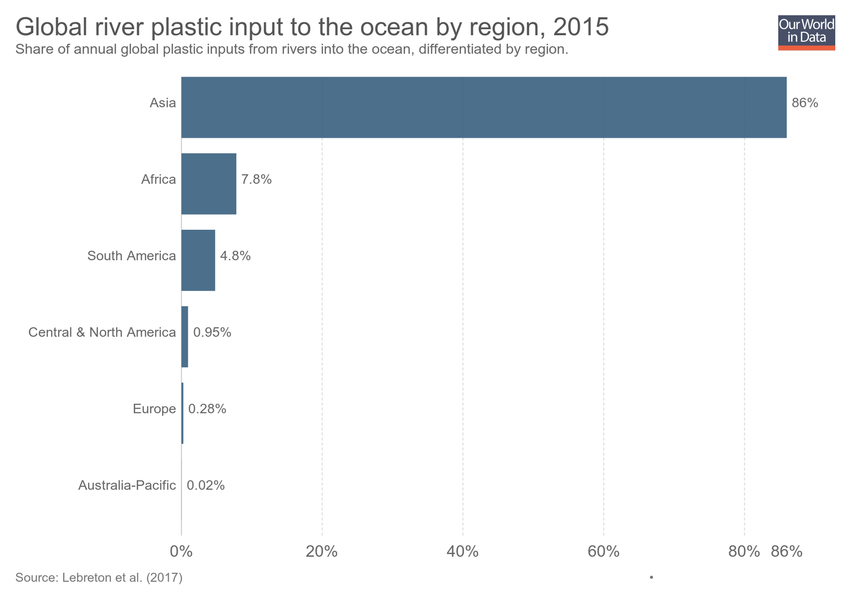
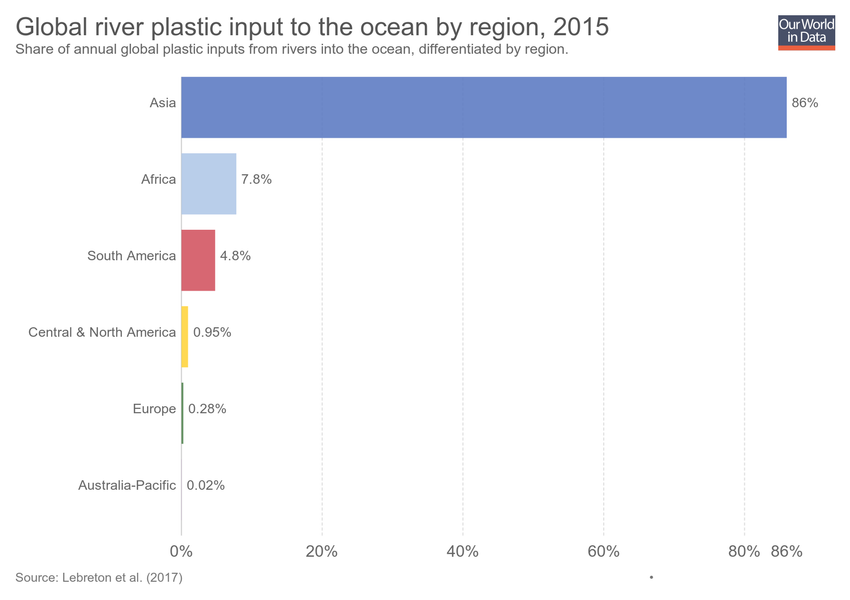
Updating chart river-plastics-by-region

Changed region(s): [[0.2141, 0.12, 0.9482, 0.63]]

diff --git a/grapher/river-plastics-by-region.html b/grapher/river-plastics-by-region.html
@@ -1,4 +1,4 @@
-<!doctype html><html><head><meta name="viewport" content="width=device-width, initial-scale=1" /><title>Global river plastic input to the ocean by region - Our World in Data</title><meta name="description" content="Share of annual global plastic inputs from rivers into the ocean, differentiated by region." /><link rel="canonical" href="https://ourworldindata.org/grapher/river-plastics-by-region" /><meta property="fb:app_id" content="1149943818390250" /><meta property="og:url" content="https://ourworldindata.org/grapher/river-plastics-by-region" /><meta property="og:title" content="Global river plastic input to the ocean by region" /><meta property="og:description" content="Share of annual global plastic inputs from rivers into the ocean, differentiated by region." /><meta property="og:image" content="https://ourworldindata.org/grapher/exports/river-plastics-by-region.png?v=1" /><meta property="og:image:width" content="850" /><meta property="og:image:height" content="600" /><meta property="og:site_name" content="Our World in Data" /><meta name="twitter:card" content="summary_large_image" /><meta name="twitter:site" content="@OurWorldInData" /><meta name="twitter:creator" content="@OurWorldInData" /><meta name="twitter:title" content="Global river plastic input to the ocean by region" /><meta name="twitter:description" content="Share of annual global plastic inputs from rivers into the ocean, differentiated by region." /><meta name="twitter:image" content="https://ourworldindata.org/grapher/exports/river-plastics-by-region.png?v=1" /><style>
+<!doctype html><html><head><meta name="viewport" content="width=device-width, initial-scale=1" /><title>Global river plastic input to the ocean by region - Our World in Data</title><meta name="description" content="Share of annual global plastic inputs from rivers into the ocean, differentiated by region." /><link rel="canonical" href="https://ourworldindata.org/grapher/river-plastics-by-region" /><meta property="fb:app_id" content="1149943818390250" /><meta property="og:url" content="https://ourworldindata.org/grapher/river-plastics-by-region" /><meta property="og:title" content="Global river plastic input to the ocean by region" /><meta property="og:description" content="Share of annual global plastic inputs from rivers into the ocean, differentiated by region." /><meta property="og:image" content="https://ourworldindata.org/grapher/exports/river-plastics-by-region.png?v=2" /><meta property="og:image:width" content="850" /><meta property="og:image:height" content="600" /><meta property="og:site_name" content="Our World in Data" /><meta name="twitter:card" content="summary_large_image" /><meta name="twitter:site" content="@OurWorldInData" /><meta name="twitter:creator" content="@OurWorldInData" /><meta name="twitter:title" content="Global river plastic input to the ocean by region" /><meta name="twitter:description" content="Share of annual global plastic inputs from rivers into the ocean, differentiated by region." /><meta name="twitter:image" content="https://ourworldindata.org/grapher/exports/river-plastics-by-region.png?v=2" /><style>
         html, body {
             height: 100%;
             margin: 0;
@@ -20,8 +20,8 @@
         }
     </style><noscript><style>
                     figure { display: none !important; }
-                </style></noscript><link rel="stylesheet" href="https://ourworldindata.org/grapher/assets/commons.bundle.f1a1d21b78c2ceaa055d.css" /><link rel="preload" href="/grapher/data/variables/97669.json?v=1" as="fetch" crossorigin /></head><body class="singleChart"><figure data-grapher-src="/grapher/river-plastics-by-region"></figure><noscript id="fallback"><img src="/grapher/exports/river-plastics-by-region.svg" /><p>Interactive visualization requires JavaScript</p></noscript><script src="https://cdn.polyfill.io/v2/polyfill.min.js?features=es6,fetch"></script><script src="https://ourworldindata.org/grapher/assets/commons.bundle.f1a1d21b78c2ceaa055d.js"></script><script src="https://ourworldindata.org/grapher/assets/charts.bundle.f1a1d21b78c2ceaa055d.js"></script><script>
-        var jsonConfig = {"map":{"projection":"World","colorSchemeLabels":[],"colorSchemeValues":[],"customNumericColors":[],"customCategoryColors":{},"customCategoryLabels":{},"customHiddenCategories":{}},"tab":"chart","slug":"river-plastics-by-region","type":"DiscreteBar","title":"Global river plastic input to the ocean by region","xAxis":{"scaleType":"linear"},"yAxis":{"min":0,"scaleType":"linear"},"version":1,"subtitle":"Share of annual global plastic inputs from rivers into the ocean, differentiated by region.","hasMapTab":false,"stackMode":"absolute","dimensions":[{"display":{},"property":"y","variableId":97669}],"sourceDesc":"Lebreton et al. (2017)","hasChartTab":true,"isPublished":true,"selectedData":[{"index":0,"entityId":276},{"index":0,"entityId":273},{"index":0,"entityId":275},{"index":0,"entityId":37747},{"index":0,"entityId":37746},{"index":0,"entityId":295}],"addCountryMode":"disabled","id":2872};
+                </style></noscript><link rel="stylesheet" href="https://ourworldindata.org/grapher/assets/commons.bundle.f1a1d21b78c2ceaa055d.css" /><link rel="preload" href="/grapher/data/variables/97669.json?v=2" as="fetch" crossorigin /></head><body class="singleChart"><figure data-grapher-src="/grapher/river-plastics-by-region"></figure><noscript id="fallback"><img src="/grapher/exports/river-plastics-by-region.svg" /><p>Interactive visualization requires JavaScript</p></noscript><script src="https://cdn.polyfill.io/v2/polyfill.min.js?features=es6,fetch"></script><script src="https://ourworldindata.org/grapher/assets/commons.bundle.f1a1d21b78c2ceaa055d.js"></script><script src="https://ourworldindata.org/grapher/assets/charts.bundle.f1a1d21b78c2ceaa055d.js"></script><script>
+        var jsonConfig = {"id":2872,"map":{"projection":"World","colorSchemeLabels":[],"colorSchemeValues":[],"customNumericColors":[],"customCategoryColors":{},"customCategoryLabels":{},"customHiddenCategories":{}},"tab":"chart","slug":"river-plastics-by-region","type":"DiscreteBar","title":"Global river plastic input to the ocean by region","xAxis":{"scaleType":"linear"},"yAxis":{"min":0,"scaleType":"linear"},"version":2,"subtitle":"Share of annual global plastic inputs from rivers into the ocean, differentiated by region.","hasMapTab":false,"stackMode":"absolute","dimensions":[{"display":{},"property":"y","variableId":97669}],"sourceDesc":"Lebreton et al. (2017)","hasChartTab":true,"isPublished":true,"selectedData":[{"index":0,"entityId":276},{"index":0,"entityId":273},{"index":0,"entityId":275},{"index":0,"entityId":37747},{"index":0,"entityId":37746},{"index":0,"entityId":295}],"addCountryMode":"disabled","baseColorScheme":"continents","invertColorScheme":true};
         var figure = document.getElementsByTagName("figure")[0];
         try {
             window.App = {};
